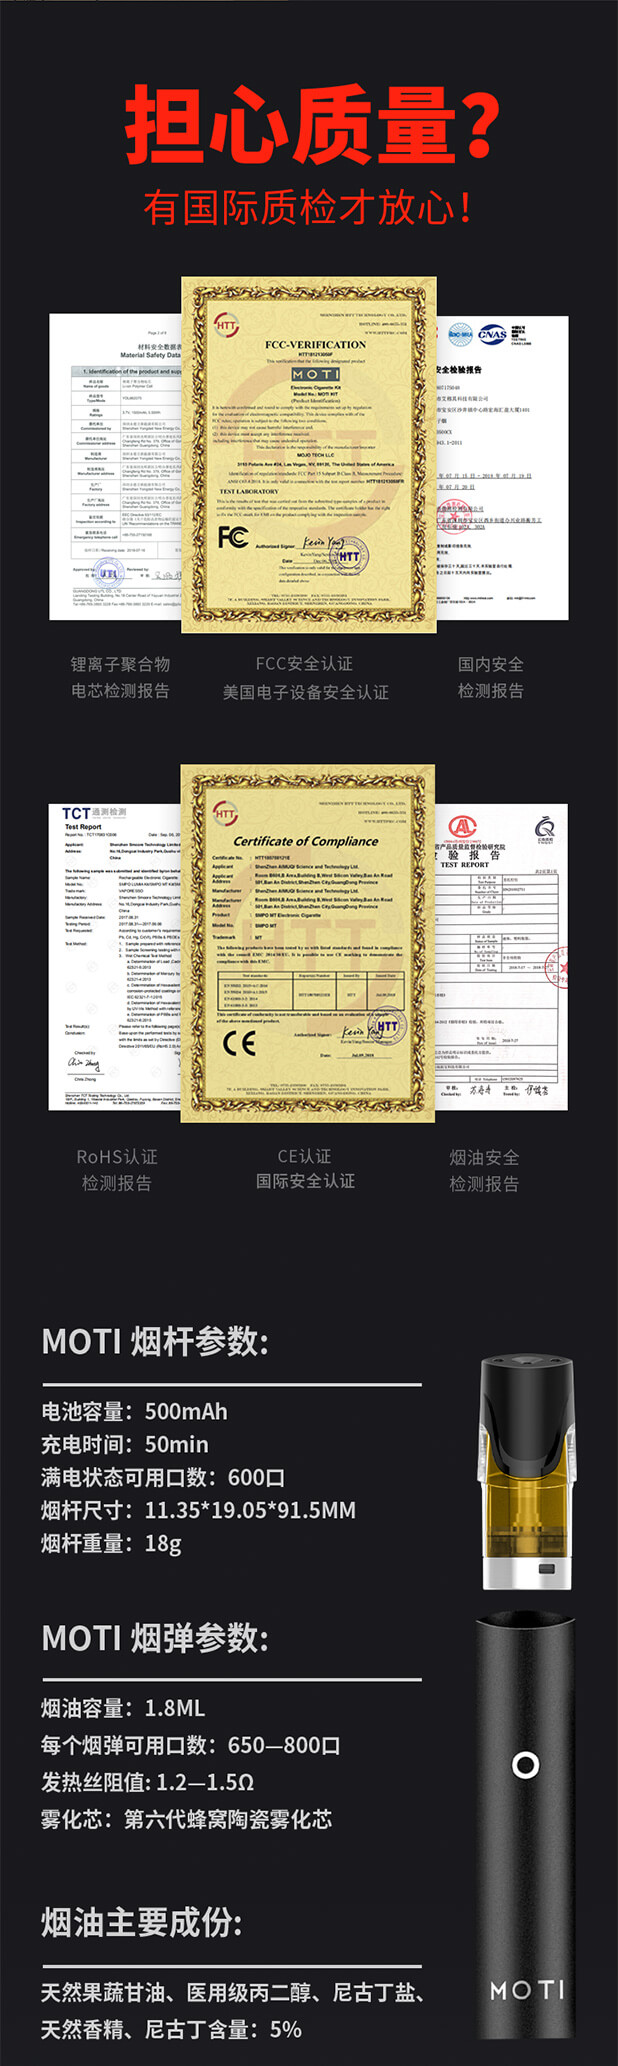
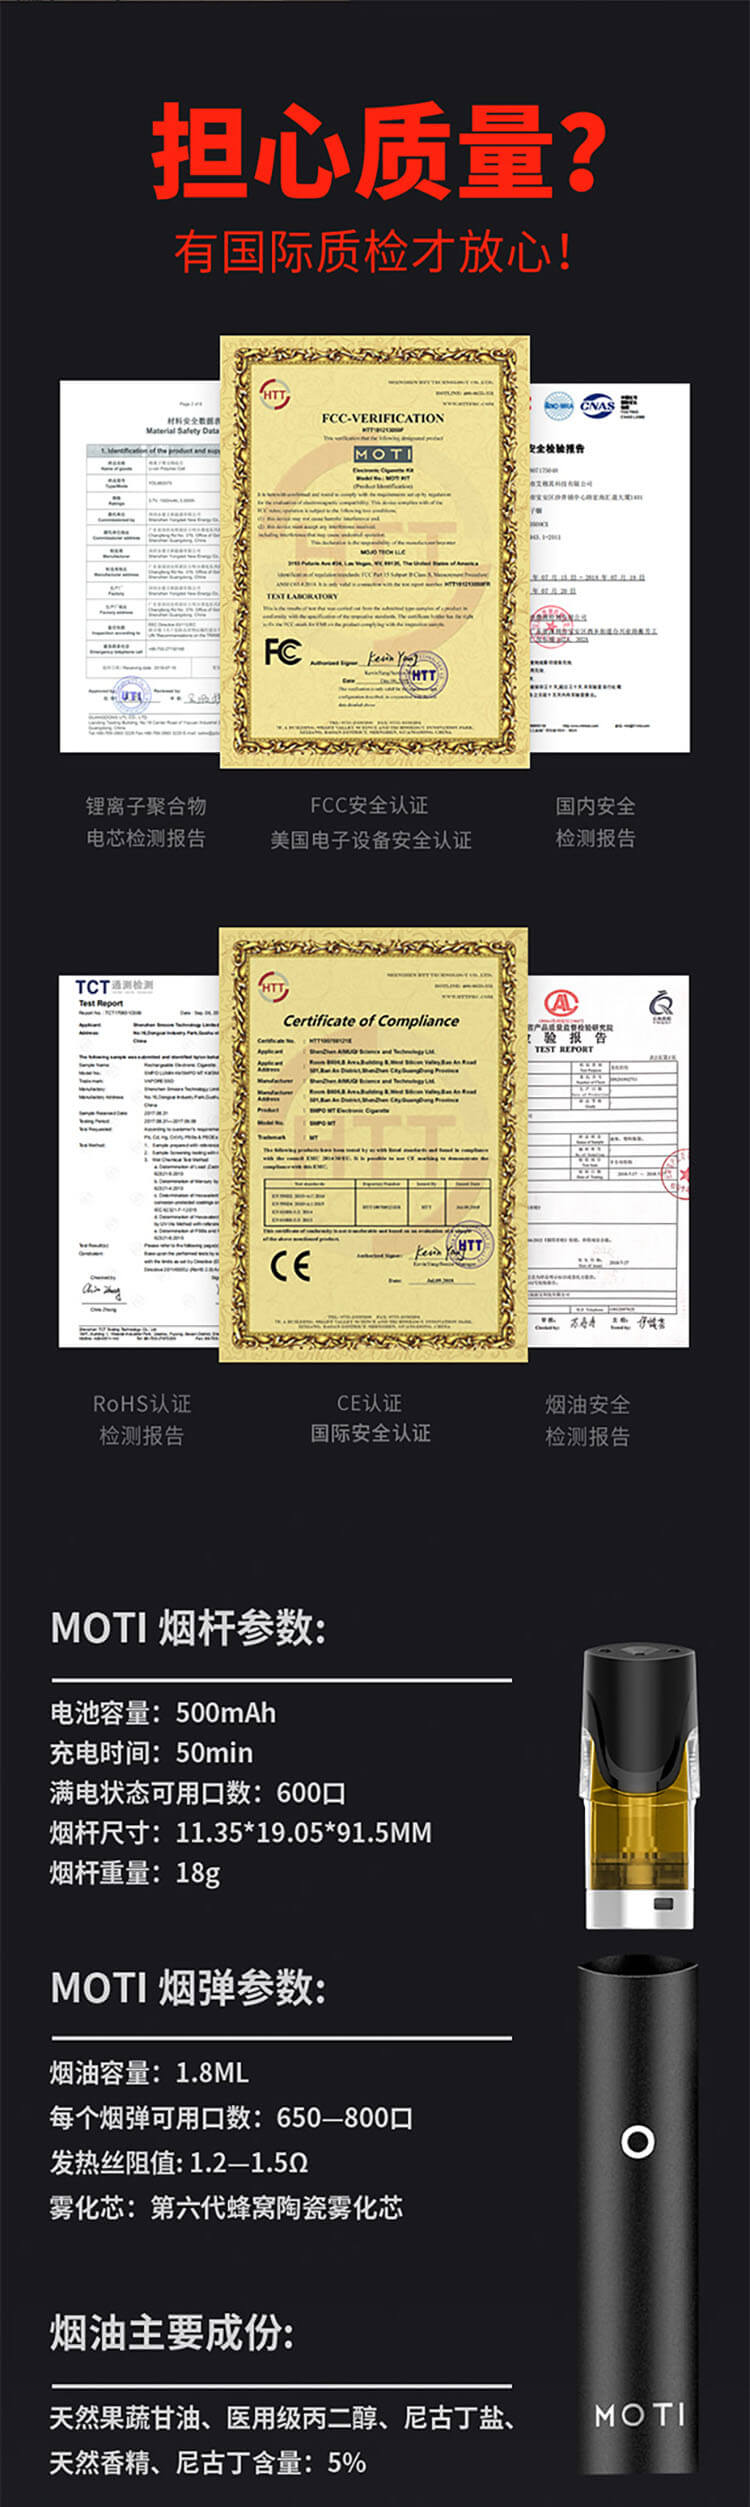
修改图片

diff --git a/pages/index/imgs.js b/pages/index/imgs.js
@@ -703,9 +703,9 @@ export default {
 	},
 	imgs13:{
 		swipers: [
-		    '../../static/type/12/1.jpg',
-			'../../static/type/12/1-1.jpg',
-			'../../static/type/12/1-2.jpg',
+		    '../../static/type/13/1.jpg',
+			'../../static/type/13/2.jpg',
+			'../../static/type/13/3.jpg',
 		],
 		imgs:[
 			{
@@ -729,7 +729,7 @@ export default {
 			{
 				url: '../../static/type/13/MOTI-4.jpg',
 				width: 750,
-				height: 2066,
+				height: 2507,
 				isLoaded: false
 			},
 			{
